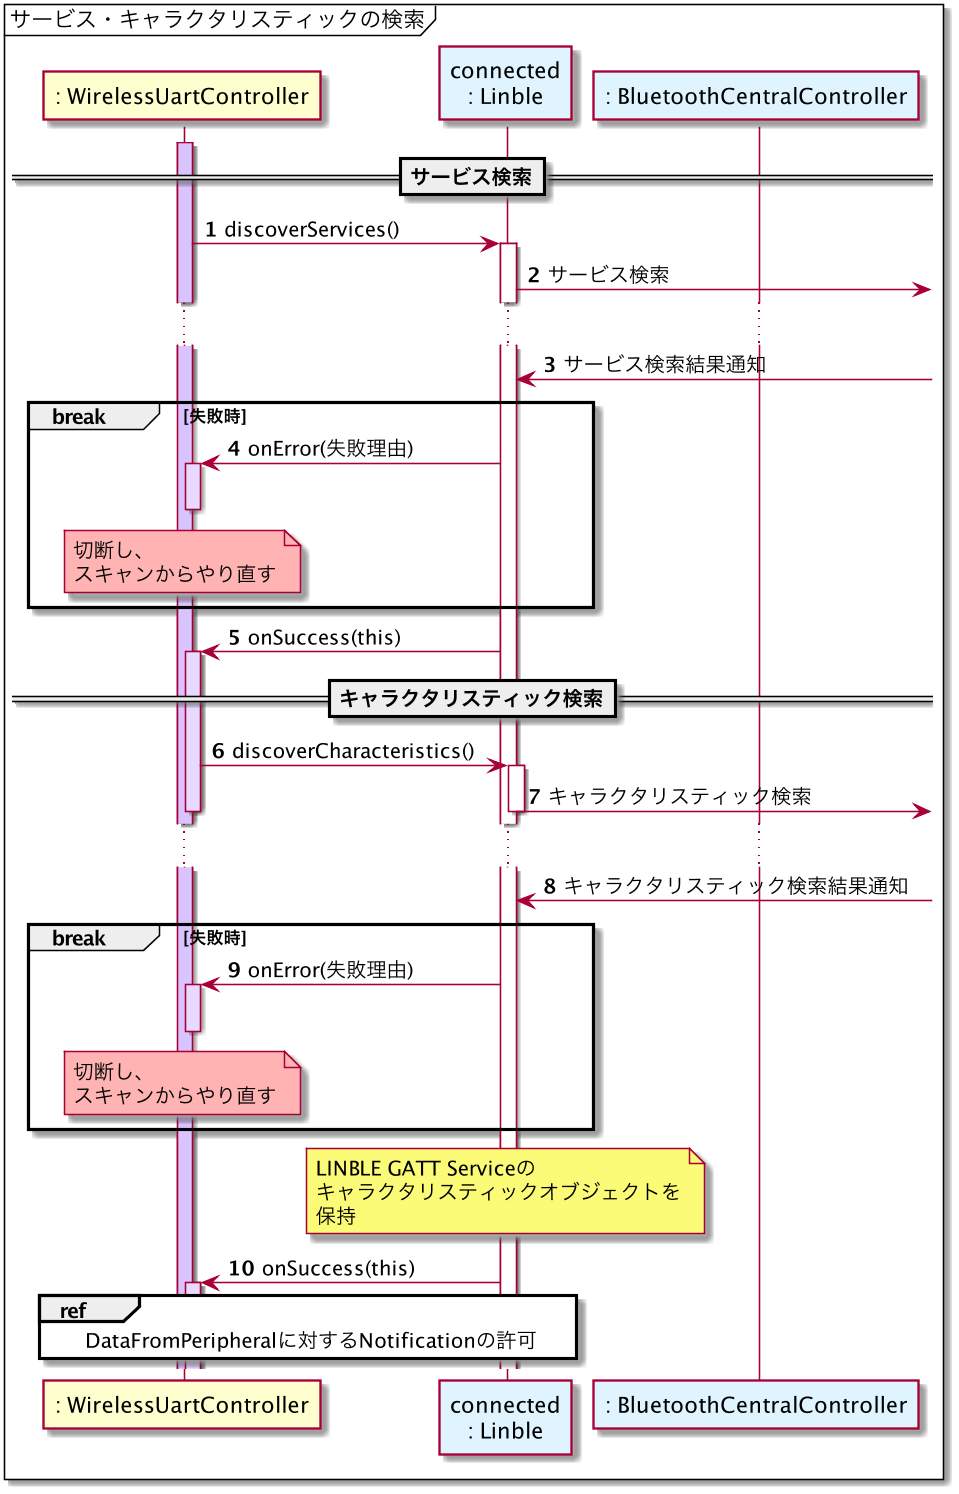
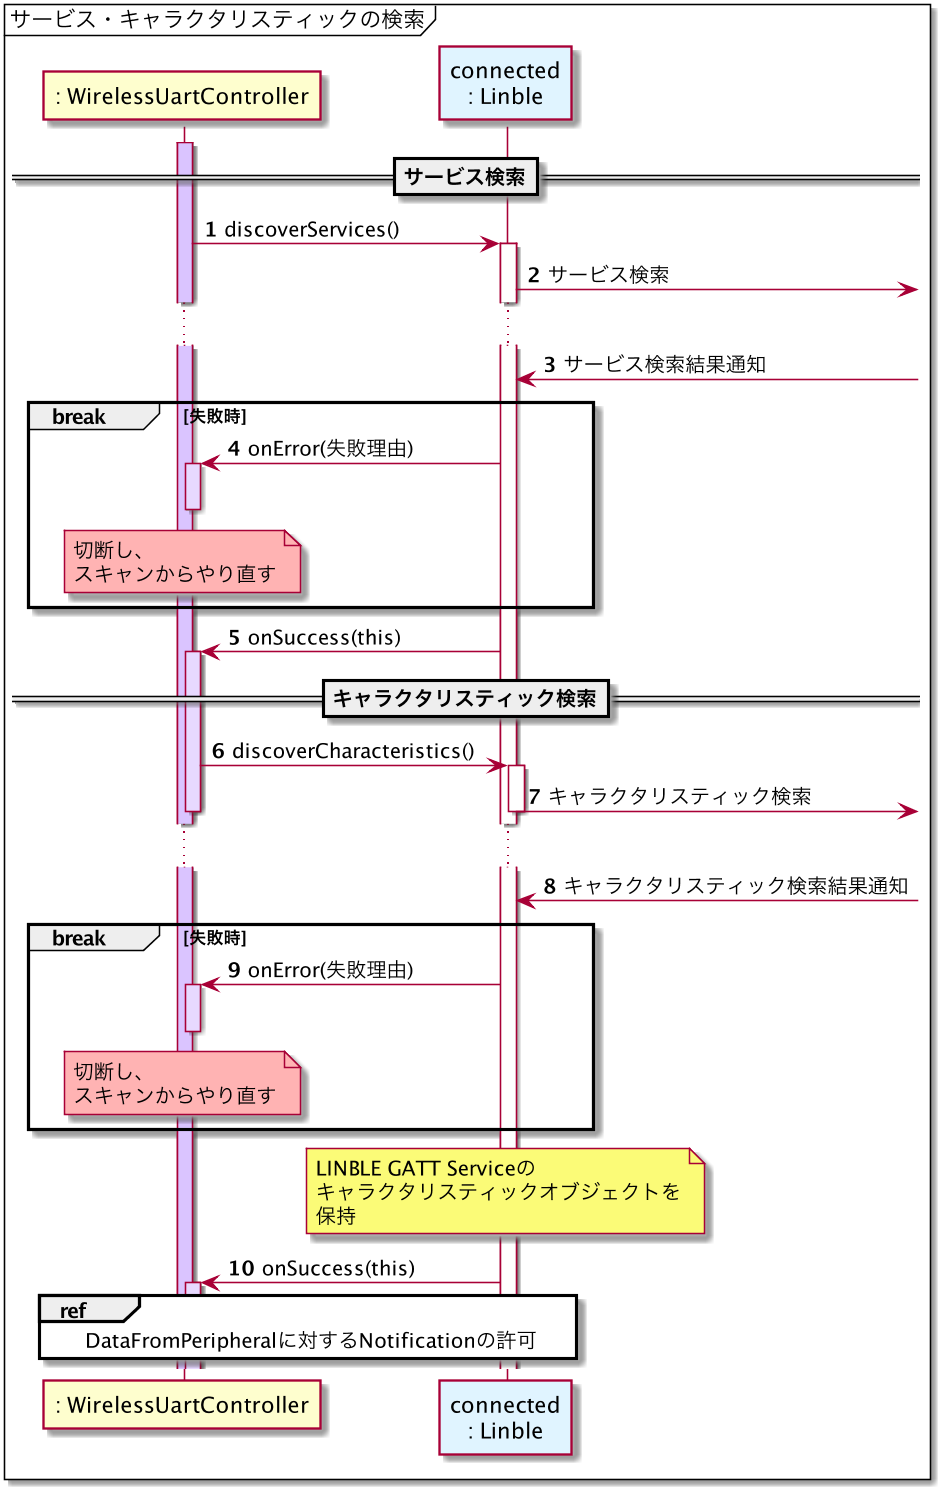
GATT準備のシーケンス図に余計なオブジェクトがあったのを修正

diff --git a/plantuml.md b/plantuml.md
@@ -274,7 +274,6 @@ mainframe サービス・キャラクタリスティックの検索
 
 participant ": WirelessUartController" as WirelessUartController
 participant "connected\n: Linble" as Linble #e0f4ff
-participant ": BluetoothCentralController" as BluetoothCentralController #e0f4ff
 
 autonumber
 
@@ -344,7 +343,6 @@ mainframe DataFromPeripheralに対するNotificationの許可
 
 participant ": WirelessUartController" as WirelessUartController
 participant "connected\n: Linble" as Linble #e0f4ff
-participant ": BluetoothCentralController" as BluetoothCentralController #e0f4ff
 
 autonumber
 
